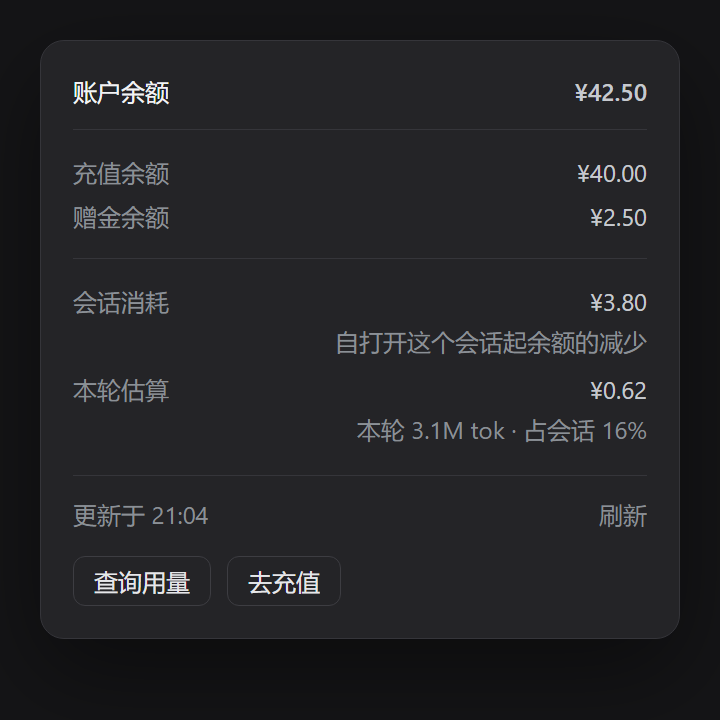
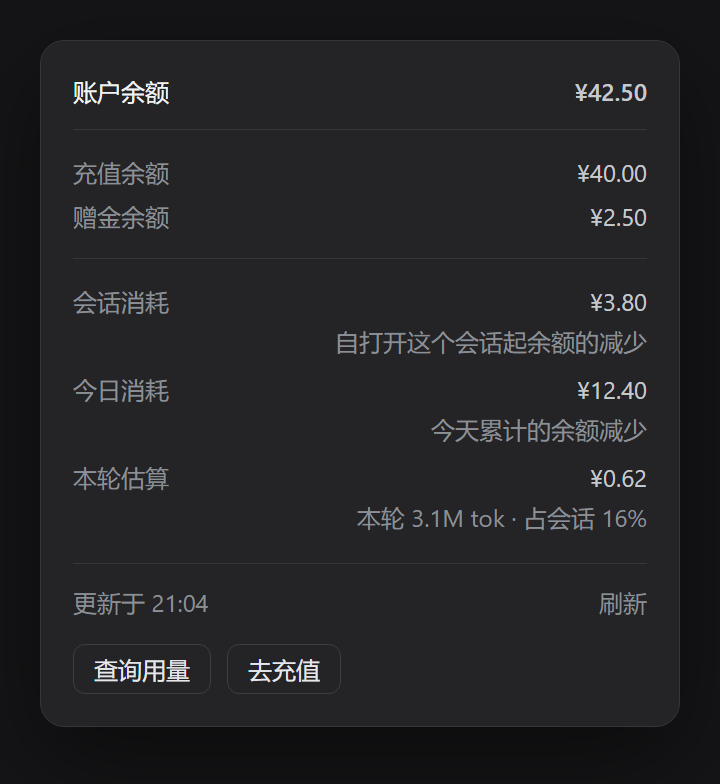
feat: accumulate today's spend in the detail panel

diff --git a/lib/client.js b/lib/client.js
@@ -19,6 +19,8 @@ window.__ModuleLoader__.load({
 		const LOW_BALANCE_CENTS = 500;
 		/** Per-Session baseline of the wallet total this Session started from. */
 		const STORAGE_PREFIX = "dsh-account-balance.base.";
+		/** Today's drained total, keyed by the local calendar day inside the record. */
+		const STORAGE_DAY = "dsh-account-balance.day";
 		/** Distance between the trigger and the panel. */
 		const PANEL_GAP = 8;
 		/** Viewport margin the placement clamp keeps. */
@@ -219,6 +221,62 @@ window.__ModuleLoader__.load({
 			return { turn, tokens, share: Math.min(1, tokens / total) };
 		}
 
+		/** @param when - local time or epoch milliseconds. @returns its YYYY-MM-DD key. */
+		function dayKey(when) {
+			const date = when instanceof Date ? when : new Date(when);
+			const pad = (value) => String(value).padStart(2, "0");
+			return date.getFullYear() + "-" + pad(date.getMonth() + 1) + "-" + pad(date.getDate());
+		}
+
+		/** @returns the stored daily record, or null. */
+		function readDay() {
+			try {
+				const raw = localStorage.getItem(STORAGE_DAY);
+				const parsed = raw === null ? null : JSON.parse(raw);
+				return parsed !== null && typeof parsed === "object" ? parsed : null;
+			} catch {
+				return null;
+			}
+		}
+
+		/** @param state - daily record. */
+		function writeDay(state) {
+			try {
+				localStorage.setItem(STORAGE_DAY, JSON.stringify(state));
+			} catch {}
+		}
+
+		/**
+		 * Fold one balance observation into today's drained total.
+		 *
+		 * Drops accumulate; increases (a top-up) only move the reference point, so a
+		 * recharge never erases what was already spent today. A new local day starts
+		 * from zero at the first observation of that day.
+		 * @param wallets - current per-currency totals.
+		 * @param now - observation time.
+		 * @returns currency to cents spent today.
+		 */
+		function accumulateDay(wallets, now) {
+			const key = dayKey(now);
+			const stored = readDay();
+			const sameDay = stored !== null && stored.date === key &&
+				typeof stored.last === "object" && stored.last !== null &&
+				typeof stored.spent === "object" && stored.spent !== null;
+			const spent = sameDay ? stored.spent : {};
+			const last = sameDay ? stored.last : {};
+			const nextSpent = {};
+			const nextLast = {};
+			for (const wallet of wallets) {
+				const unit = wallet.currency;
+				const previous = typeof last[unit] === "number" ? last[unit] : wallet.total;
+				const drop = previous - wallet.total;
+				nextSpent[unit] = (typeof spent[unit] === "number" ? spent[unit] : 0) + (drop > 0 ? drop : 0);
+				nextLast[unit] = wallet.total;
+			}
+			writeDay({ date: key, spent: nextSpent, last: nextLast });
+			return nextSpent;
+		}
+
 		/**
 		 * Build the pill component for one plugin context.
 		 * @param ctx - client plugin context.
@@ -268,7 +326,8 @@ window.__ModuleLoader__.load({
 							return;
 						}
 						const base = ensureBase(sessionId, wallets);
-						setView({ wallets, spend: spendOf(wallets, base), at: Date.now() });
+						const today = accumulateDay(wallets, Date.now());
+						setView({ wallets, spend: spendOf(wallets, base), today, at: Date.now() });
 					};
 					const onVisible = () => {
 						if (document.visibilityState === "visible") pull();
@@ -361,6 +420,11 @@ window.__ModuleLoader__.load({
 				const spendText = spend.map((row2) => formatCents(row2.cents, currencySymbol(row2.currency))).join(" \u00b7 ");
 				const rechargeText = wallets.map((wallet) => formatCents(wallet.recharge, symbolOf(wallet))).join(" \u00b7 ");
 				const bonusText = wallets.map((wallet) => formatCents(wallet.bonus, symbolOf(wallet))).join(" \u00b7 ");
+				const today = view.today === null || view.today === void 0 ? null : wallets.map((wallet) => ({
+					currency: wallet.currency,
+					cents: typeof view.today[wallet.currency] === "number" ? view.today[wallet.currency] : 0
+				}));
+				const todayText = today === null ? null : today.map((row2) => formatCents(row2.cents, currencySymbol(row2.currency))).join(" \u00b7 ");
 				const low = lowWallets.length > 0;
 				const turn = latestTurn(nodes, wholeLog);
 				const turnSpend = turn === null ? null : spend.map((row2) => ({
@@ -396,6 +460,8 @@ window.__ModuleLoader__.load({
 						rule("r2"),
 						row(t("\u4f1a\u8bdd\u6d88\u8017", "Session spend"), spendText, "spend"),
 						note(t("\u81ea\u6253\u5f00\u8fd9\u4e2a\u4f1a\u8bdd\u8d77\u4f59\u989d\u7684\u51cf\u5c11", "balance drop since this session was opened"), "spendNote"),
+						todayText === null ? null : row(t("\u4eca\u65e5\u6d88\u8017", "Today"), todayText, "today"),
+						todayText === null ? null : note(t("\u4eca\u5929\u7d2f\u8ba1\u7684\u4f59\u989d\u51cf\u5c11", "balance drop since today started"), "todayNote"),
 						turnText === null ? null : row(t("\u672c\u8f6e\u4f30\u7b97", "This turn"), turnText, "turn"),
 						turnText === null || turn === null ? null : note(t("\u672c\u8f6e ", "This turn ") + compactTokens(turn.tokens) + " tok \u00b7 " + t("\u5360\u4f1a\u8bdd ", "of session ") + Math.round(turn.share * 100) + "%", "turnNote"),
 						rule("r3"),
@@ -456,7 +522,7 @@ window.__ModuleLoader__.load({
 
 		exports.apply = apply;
 		exports.inject = inject;
-		exports.__helpers = { TERTIARY, summarize, formatCents, toCents, currencySymbol, ensureBase, spendOf, readBase, writeBase, usageTokens, latestTurn, compactTokens };
+		exports.__helpers = { TERTIARY, summarize, dayKey, readDay, writeDay, accumulateDay, formatCents, toCents, currencySymbol, ensureBase, spendOf, readBase, writeBase, usageTokens, latestTurn, compactTokens };
 		return module.exports;
 	}
 });

diff --git a/README.md b/README.md
@@ -13,6 +13,7 @@
 
 - **余额**：`ctx.remote.account.getBalance`，与「设置 → 账号与余额」同一个 Host 接口，金额为充值余额 + 赠金余额的合计。
 - **会话**：这个会话累计消耗，按「余额相对打开本会话时的减少量」计算；基线按 sessionId 存在 `localStorage`，切换会话、刷新窗口都不串不清零，充值会把基线抬高，不会出现负数。
+- **今日**：按本地日历日累计的余额减少；每次观察累加下降量，充值只移动参照点，不会抹掉当天已花的；跨零点自动归零。
 - **本轮**：本轮 token ÷ 全会话 token × 会话消耗。Host 没有逐轮账单，这一项是分摊估算；分母用全日志的 `tokenUsage` 投影，翻页和压缩都不会让比例跑偏。
 - **低余额变红**：低于 5（`LOW_BALANCE_CENTS = 500`，按各币种最小单位，即 ¥5 / $5）时「余额」那一段变红，用的是 DSH 自己的 `--dsw-alias-state-error-primary`。
 - **点击面板**：真 `<button>` + portal，Escape / 点面板外 / 再点一次关闭；面板里能刷新，并跳到「查询用量 / 去充值」（链接与设置页同源）。
